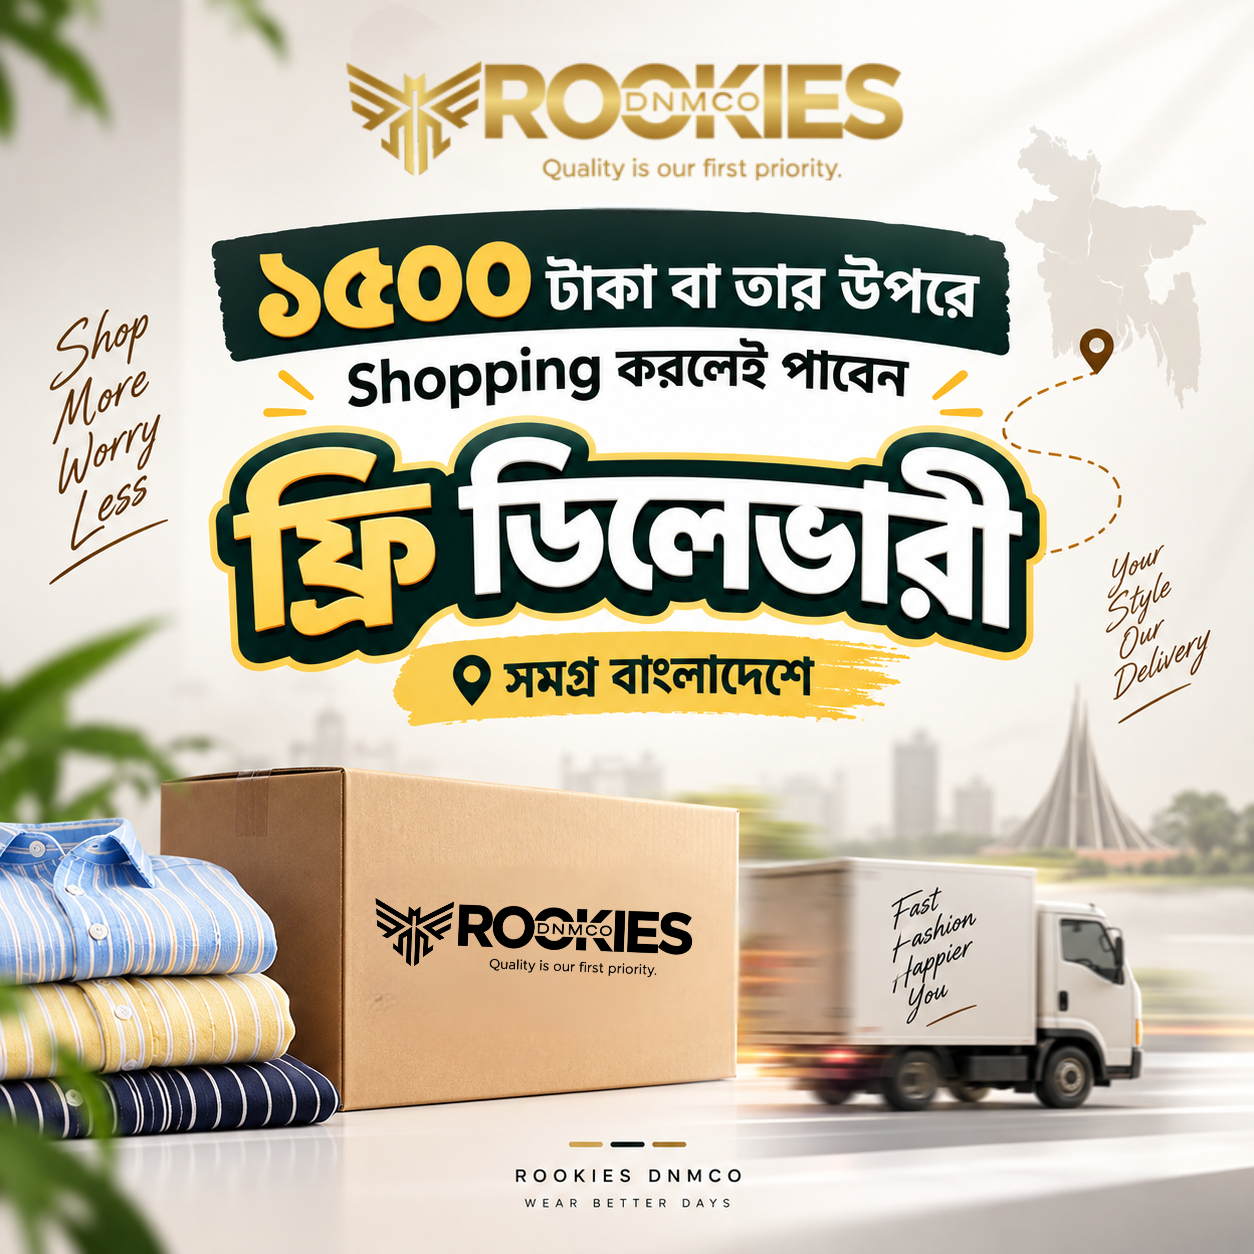
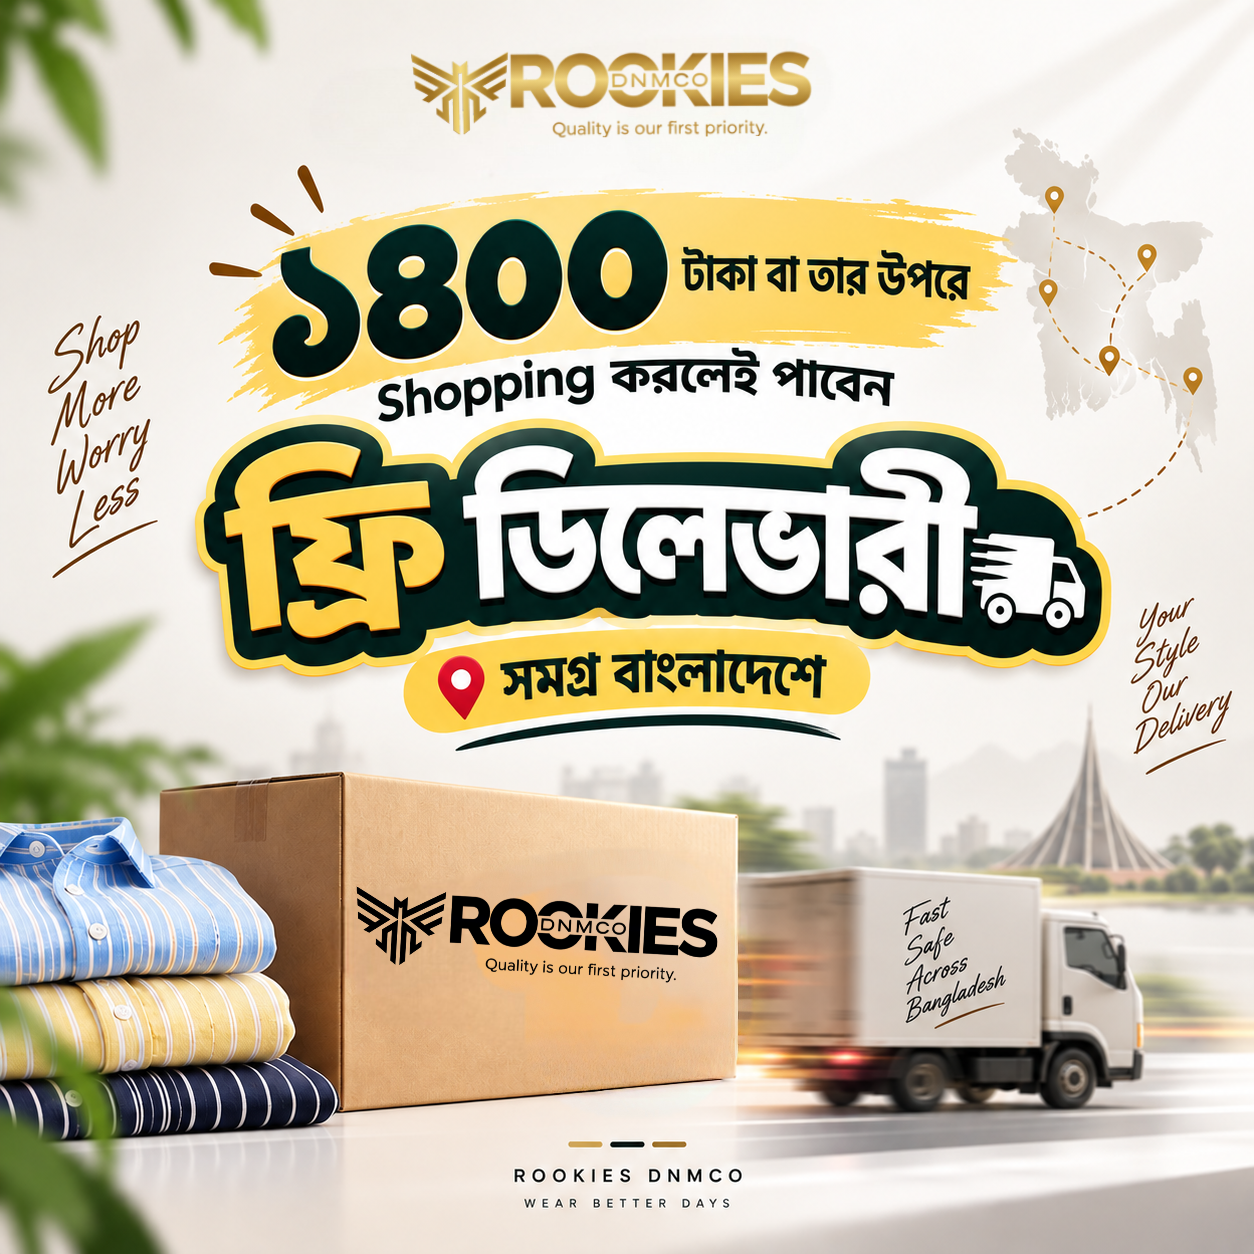
shirt size and popup update

diff --git a/lib/config.ts b/lib/config.ts
@@ -41,14 +41,14 @@ export function getRegularDeliveryCharge(district: string): number {
     : DELIVERY_CHARGE_OUTSIDE_DHAKA;
 }
 
-export const FREE_DELIVERY_THRESHOLD = 1500;
+export const FREE_DELIVERY_THRESHOLD = 1400;
 export const REDUCED_DELIVERY_THRESHOLD = 1000;
 export const REDUCED_DELIVERY_CHARGE = 50;
 
 /**
  * Delivery fee is based on order subtotal (not item count):
- * - 1500 tk or more: free delivery
- * - 1000 tk to 1499 tk: flat 50 tk charge
+ * - 1400 tk or more: free delivery
+ * - 1000 tk to 1399 tk: flat 50 tk charge
  * - below 1000 tk: regular district-based charge
  */
 export function getDeliveryCharge(
@@ -62,10 +62,10 @@ export function getDeliveryCharge(
 }
 
 export const SIZE_CHART = [
-  { size: "M", chest: 40, length: 27 },
-  { size: "L", chest: 42, length: 28 },
-  { size: "XL", chest: 44, length: 29 },
-  { size: "XXL", chest: 46, length: 30 },
+  { size: "M", chest: 40, length: 28, sleeve: 24 },
+  { size: "L", chest: 42, length: 29, sleeve: 25 },
+  { size: "XL", chest: 44, length: 30, sleeve: 25 },
+  { size: "XXL", chest: 46, length: 31, sleeve: 26 },
 ] as const;
 
 export const TROUSER_SIZE_CHART = [

diff --git a/components/SizeChart.tsx b/components/SizeChart.tsx
@@ -54,6 +54,7 @@ export default function SizeChart({ variant = "shirt" }: SizeChartProps) {
                   <TableHead>Size</TableHead>
                   <TableHead>Chest (in)</TableHead>
                   <TableHead>Length (in)</TableHead>
+                  <TableHead>Sleeve (in)</TableHead>
                 </TableRow>
               </TableHeader>
               <TableBody>
@@ -62,6 +63,7 @@ export default function SizeChart({ variant = "shirt" }: SizeChartProps) {
                     <TableCell className="font-medium">{row.size}</TableCell>
                     <TableCell>{row.chest}</TableCell>
                     <TableCell>{row.length}</TableCell>
+                    <TableCell>{row.sleeve}</TableCell>
                   </TableRow>
                 ))}
               </TableBody>

diff --git a/app/page.tsx b/app/page.tsx
@@ -88,7 +88,7 @@ export default function Home() {
                 Most Summer Friendly Shirts
               </h2>
               <p className="mt-2 text-sm text-muted-foreground">
-                Enjoy 40% discount and free delivery on shopping 1500 TK or more.
+                Enjoy 40% discount and free delivery on shopping 1400 TK or more.
               </p>
             </div>
 
@@ -137,7 +137,7 @@ export default function Home() {
                 Trousers Built For Everyday Comfort
               </h2>
               <p className="mt-2 text-sm text-muted-foreground">
-                Enjoy 40% discount and free delivery on shopping 1500 TK or more.
+                Enjoy 40% discount and free delivery on shopping 1400 TK or more.
               </p>
             </div>
 

diff --git a/app/layout.tsx b/app/layout.tsx
@@ -118,7 +118,7 @@ export default function RootLayout({
         <PixelInit />
         <div className="w-full overflow-hidden bg-black py-2 text-xs font-semibold uppercase tracking-widest text-gold sm:text-sm">
           <Marquee speed={70}>
-            🎉 Orders of 1000 TK+ get delivery for just 50 TK 🎉 Orders of 1500 TK+ get FREE Delivery!
+            🎉 Orders of 1000 TK+ get delivery for just 50 TK 🎉 Orders of 1400 TK+ get FREE Delivery!
           </Marquee>
         </div>
         <Header />
